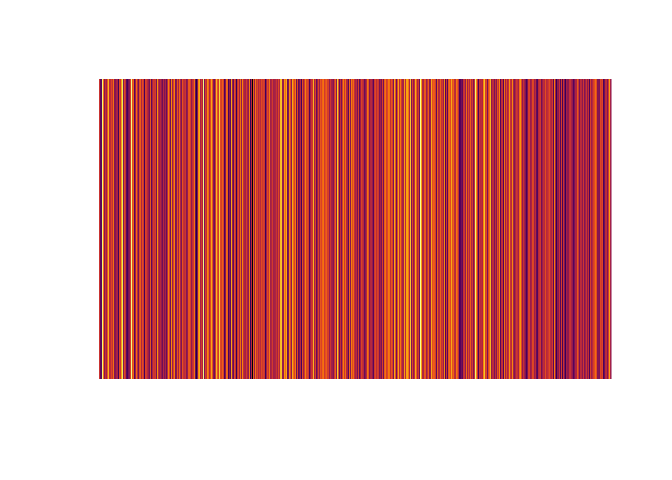
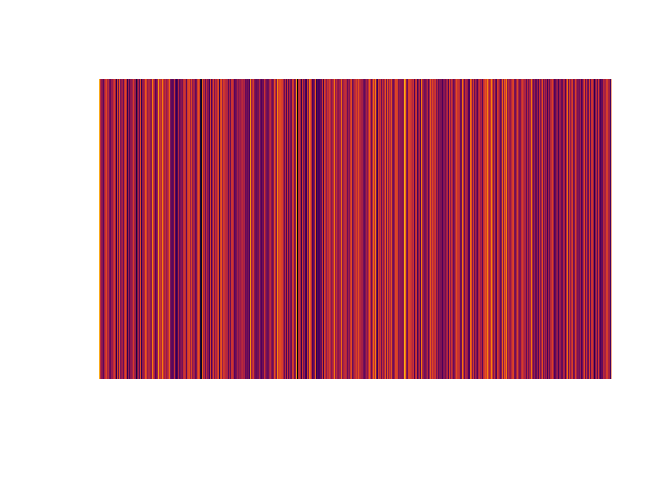
version 0.3.8

diff --git a/inst/include/colourvalues/scale/scale.hpp b/inst/include/colourvalues/scale/scale.hpp
@@ -6,14 +6,18 @@
 namespace colourvalues {
 namespace scale {
 
-  inline Rcpp::NumericVector minmax( Rcpp::NumericVector& x ) {
-    int n = x.size();
+  template< int RTYPE >
+  inline Rcpp::Vector< RTYPE > minmax( Rcpp::Vector< RTYPE >& x ) {
+    R_xlen_t n = x.size();
 
-    double min = 0;
-    double max = 0;
+    typedef typename Rcpp::traits::storage_type< RTYPE >::type T;
+
+    T min = 0;
+    T max = 0;
     bool first_value = false;
 
-    for( int i = 0; i < n; i++) {
+    R_xlen_t i;
+    for( i = 0; i < n; i++) {
 
       if( !ISNAN( x[i] ) ) {
         if( !first_value ) {
@@ -29,11 +33,12 @@ namespace scale {
         }
       }
     }
-    return Rcpp::NumericVector::create(min, max);
+    return Rcpp::Vector< RTYPE >::create( min, max );
   }
 
   // Always rescales to (0, 1)
   // used for variables
+  // iff input is INTSXP; the output will be REALSXP
   inline void rescale( Rcpp::NumericVector& x ) {
     int n = x.size();
 

diff --git a/src/RcppExports.cpp b/src/RcppExports.cpp
@@ -5,6 +5,11 @@
 
 using namespace Rcpp;
 
+#ifdef RCPP_USE_GLOBAL_ROSTREAM
+Rcpp::Rostream<true>&  Rcpp::Rcout = Rcpp::Rcpp_cout_get();
+Rcpp::Rostream<false>& Rcpp::Rcerr = Rcpp::Rcpp_cerr_get();
+#endif
+
 // rcpp_colour_values_hex
 SEXP rcpp_colour_values_hex(SEXP x, SEXP palette, Rcpp::NumericVector& alpha, std::string na_colour, bool include_alpha, bool format, int digits, bool summary, int n_summaries);
 RcppExport SEXP _colourvalues_rcpp_colour_values_hex(SEXP xSEXP, SEXP paletteSEXP, SEXP alphaSEXP, SEXP na_colourSEXP, SEXP include_alphaSEXP, SEXP formatSEXP, SEXP digitsSEXP, SEXP summarySEXP, SEXP n_summariesSEXP) {

diff --git a/README.md b/README.md
@@ -2,8 +2,8 @@
 [![R build
 status](https://github.com/SymbolixAU/colourvalues/workflows/R-CMD-check/badge.svg)](https://github.com/SymbolixAU/colourvalues/actions)
 [![Codecov test
-coverage](https://codecov.io/gh/symbolixau/colourvalues/branch/master/graph/badge.svg)](https://codecov.io/gh/symbolixau/colourvalues?branch=master)
-[![CRAN\_Status\_Badge](http://www.r-pkg.org/badges/version/colourvalues)](https://CRAN.R-project.org/package=colourvalues)
+coverage](https://codecov.io/gh/symbolixau/colourvalues/branch/master/graph/badge.svg)](https://app.codecov.io/gh/symbolixau/colourvalues?branch=master)
+[![CRAN_Status_Badge](http://www.r-pkg.org/badges/version/colourvalues)](https://CRAN.R-project.org/package=colourvalues)
 ![downloads](http://cranlogs.r-pkg.org/badges/grand-total/colourvalues)
 [![CRAN RStudio mirror
 downloads](http://cranlogs.r-pkg.org/badges/colourvalues)](https://CRAN.R-project.org/package=colourvalues)
@@ -16,11 +16,11 @@ Stars](https://img.shields.io/github/stars/SymbolixAU/colourvalues.svg?style=soc
 
 <img src="man/figures/README-unnamed-chunk-1-1.png" width="100%" height="200" />
 
------
+------------------------------------------------------------------------
 
 ### What does it do?
 
-It maps viridis colours (by default) to values, and quickly\!
+It maps viridis colours (by default) to values, and quickly!
 
 **Note** It does not perform a 1-to-1 mapping of a palette to values. It
 interpolates the colours from a given palette.
@@ -29,8 +29,8 @@ interpolates the colours from a given palette.
 
 I’m aware there are other methods for mapping colours to values. And
 which do it quick too. But I can never remember them, and I find the
-interfaces a bit cumbersome. For example, `scales::col_numeric(palette =
-viridisLite::viridis(5), domain = range(1:5))(1:5)`.
+interfaces a bit cumbersome. For example,
+`scales::col_numeric(palette = viridisLite::viridis(5), domain = range(1:5))(1:5)`.
 
 I wanted **one** function which will work on **one** argument.
 
@@ -44,18 +44,18 @@ colour_values(letters[1:5])
 I also want it available at the `src` (C/C++) level for linking to other
 packages.
 
------
+------------------------------------------------------------------------
 
 ### Why do you spell colour with a ‘u’?
 
 Because it’s correct, and [R tells us
-to](https://developer.r-project.org/Rds.html)
+to](https://developer.R-project.org/Rds.html)
 
 > For consistency, aim to use British (rather than American) spelling
 
 But don’t worry, `color_values(1:5)` works as well
 
------
+------------------------------------------------------------------------
 
 ### How do I install it?
 
@@ -73,7 +73,7 @@ Or install the development version from
 devtools::install_github("SymbolixAU/colourvalues")
 ```
 
------
+------------------------------------------------------------------------
 
 ### How can I make use of it in my package?
 
@@ -115,7 +115,7 @@ any other.
 
 ## Do you have any examples?
 
-Of course\!
+Of course!
 
 #### 256 numbers mapped to a colour
 
@@ -150,7 +150,7 @@ bar_plot( df )
 
 <img src="man/figures/README-unnamed-chunk-6-1.png" width="100%" height="200" />
 
-Eurgh\!
+Eurgh!
 
 ``` r
 df <- df[with(df, order(x)), ]
@@ -159,9 +159,9 @@ bar_plot( df )
 
 <img src="man/figures/README-unnamed-chunk-7-1.png" width="100%" height="200" />
 
-That’s better\!
+That’s better!
 
------
+------------------------------------------------------------------------
 
 ## Are there only viridis palettes?
 
@@ -285,11 +285,11 @@ summary
 ``` r
 colour_values(rnorm(n = 10), n_summaries = 3, digits = 2)
 # $colours
-#  [1] "#51C469FF" "#25848EFF" "#3D4D8AFF" "#33628DFF" "#3A538BFF" "#2C718EFF"
-#  [7] "#440154FF" "#1F9E89FF" "#FDE725FF" "#218E8DFF"
+#  [1] "#31688EFF" "#34608DFF" "#2AAF7FFF" "#26838EFF" "#2F6A8EFF" "#21A585FF"
+#  [7] "#482576FF" "#FDE725FF" "#440154FF" "#3E4A89FF"
 # 
 # $summary_values
-# [1] "-1.92" "0.27"  "2.47" 
+# [1] "-2.29" "-0.30" "1.68" 
 # 
 # $summary_colours
 # [1] "#440154FF" "#21908CFF" "#FDE725FF"
@@ -337,18 +337,18 @@ values, and their associated colours
 ``` r
 colour_values(sample(letters, size = 50, replace = T), summary = T)
 # $colours
-#  [1] "#345F8DFF" "#414487FF" "#9AD93DFF" "#7AD151FF" "#414487FF" "#440154FF"
-#  [7] "#345F8DFF" "#22A884FF" "#345F8DFF" "#345F8DFF" "#9AD93DFF" "#414487FF"
-# [13] "#345F8DFF" "#481466FF" "#440154FF" "#DDE318FF" "#BCDF27FF" "#9AD93DFF"
-# [19] "#25848EFF" "#440154FF" "#345F8DFF" "#9AD93DFF" "#463480FF" "#BCDF27FF"
-# [25] "#482575FF" "#345F8DFF" "#1E9C89FF" "#9AD93DFF" "#5DC963FF" "#3B528BFF"
-# [31] "#345F8DFF" "#BCDF27FF" "#BCDF27FF" "#43BF71FF" "#21908CFF" "#43BF71FF"
-# [37] "#482575FF" "#2F6C8EFF" "#2FB47CFF" "#2A788EFF" "#463480FF" "#43BF71FF"
-# [43] "#463480FF" "#481466FF" "#481466FF" "#FDE725FF" "#43BF71FF" "#440154FF"
-# [49] "#481466FF" "#43BF71FF"
+#  [1] "#22A884FF" "#3B528BFF" "#2FB47CFF" "#414487FF" "#2F6C8EFF" "#7AD151FF"
+#  [7] "#345F8DFF" "#3B528BFF" "#5DC963FF" "#481466FF" "#9AD93DFF" "#3B528BFF"
+# [13] "#DDE318FF" "#2F6C8EFF" "#482575FF" "#21908CFF" "#1E9C89FF" "#21908CFF"
+# [19] "#5DC963FF" "#22A884FF" "#414487FF" "#FDE725FF" "#BCDF27FF" "#481466FF"
+# [25] "#481466FF" "#1E9C89FF" "#25848EFF" "#22A884FF" "#43BF71FF" "#345F8DFF"
+# [31] "#2A788EFF" "#482575FF" "#DDE318FF" "#414487FF" "#2A788EFF" "#7AD151FF"
+# [37] "#345F8DFF" "#440154FF" "#22A884FF" "#414487FF" "#440154FF" "#440154FF"
+# [43] "#FDE725FF" "#414487FF" "#7AD151FF" "#2A788EFF" "#7AD151FF" "#481466FF"
+# [49] "#2FB47CFF" "#463480FF"
 # 
 # $summary_values
-#  [1] "a" "b" "d" "f" "g" "h" "i" "j" "k" "l" "m" "n" "p" "q" "s" "t" "u" "v" "w"
+#  [1] "a" "b" "c" "e" "f" "g" "h" "i" "k" "m" "n" "o" "p" "r" "s" "t" "u" "w" "x"
 # [20] "y" "z"
 # 
 # $summary_colours
@@ -400,7 +400,7 @@ lapply( l, colour_values )
 # [1] "#440154FF" "#3B528BFF" "#21908CFF" "#5DC963FF" "#FDE725FF"
 ```
 
------
+------------------------------------------------------------------------
 
 ### What’s the performance like?
 
@@ -421,9 +421,9 @@ m <- microbenchmark(
 )
 m
 # Unit: seconds
-#          expr      min       lq     mean   median       uq      max neval
-#  colourvalues 1.695754 1.714815 1.761367 1.750085 1.768201 1.938267    25
-#        scales 3.549574 3.588193 3.667787 3.616344 3.718466 4.076591    25
+#          expr      min       lq    mean   median       uq      max neval
+#  colourvalues 1.627894 1.701427 1.77096 1.738952 1.794650 2.208553    25
+#        scales 3.490133 3.570589 3.66930 3.622581 3.714103 4.094268    25
 ```
 
 **1 million characters (26 unique values)**
@@ -445,6 +445,6 @@ m <- microbenchmark(
 m
 # Unit: milliseconds
 #          expr      min       lq     mean   median       uq      max neval
-#  colourvalues 180.8726 187.0247 192.5192 188.9598 190.0945 284.5871    25
-#        scales 379.6128 398.4951 409.0306 400.0631 403.0966 497.9629    25
+#  colourvalues 176.1218 178.7141 186.3045 184.7679 188.3816 223.6415    25
+#        scales 375.1857 394.0583 411.6228 406.9435 423.1733 485.9965    25
 ```

diff --git a/NEWS.md b/NEWS.md
@@ -1,4 +1,9 @@
 
+# v0.3.8
+
+* Updated tests to [appease Boost (BH)](https://github.com/SymbolixAU/colourvalues/pull/77)
+* Updated Rcpp and BH dependency requirements
+
 # v0.3.7
 
 * fixed gcc-ASAN valgrind error
